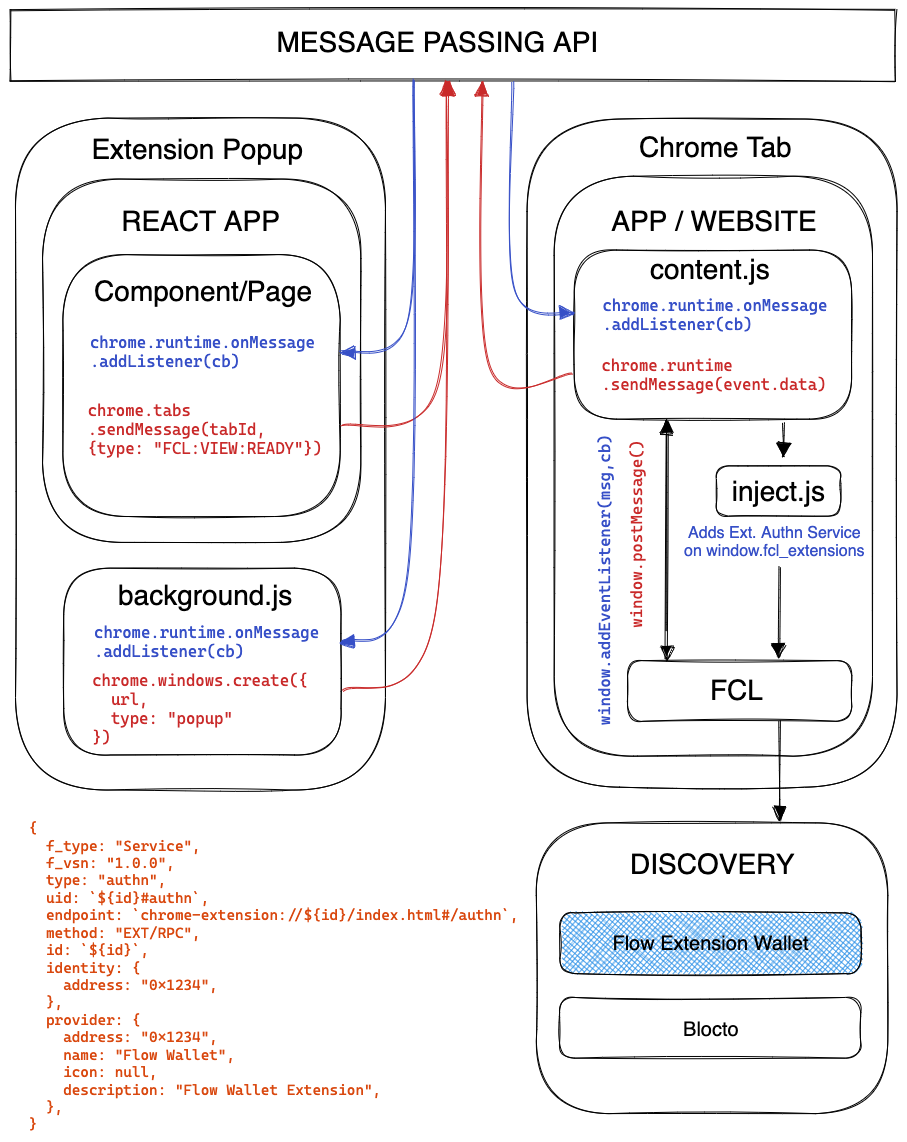
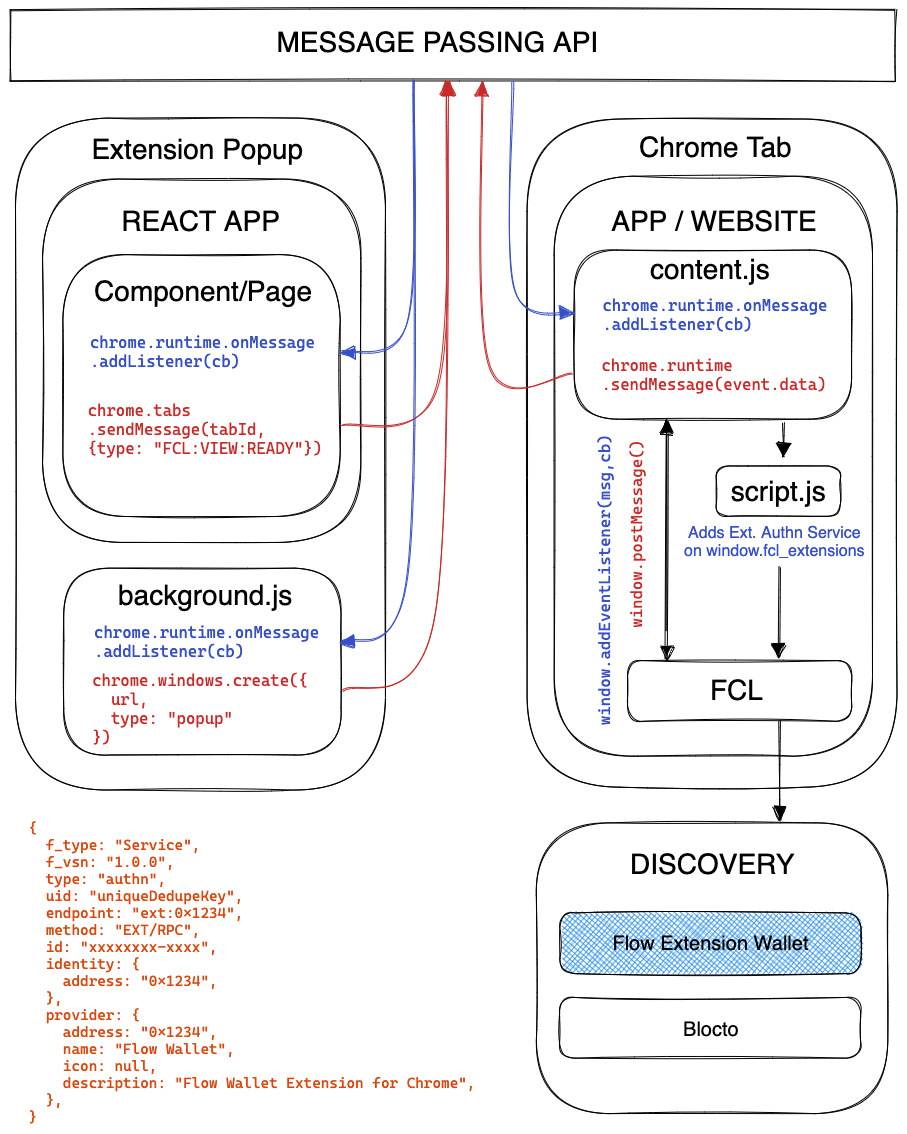
Update docs and images

diff --git a/docs/index.md b/docs/index.md
@@ -33,10 +33,9 @@ See [here](https://github.com/onflow/fcl-js/blob/master/packages/fcl/src/wallet-
 There are 3 key scripts that FCL relies on to allow message passing between the extension and the dapp. The global separation of context created by Chrome between the two and the availability of Chrome APIs within those contexts require these scripts to be setup in a particular sequence so that the communication channels needed by FCL's EXT/RPC service method will work.
 
 The following is an overview of these scripts and the functionality they need to support FCL:
-- `background.js`: Used to launch the extension if selected by the user from Discovery via `chrome.windows.create`.
-- `content.js`: Used to proxy messages between the dapp to the extension via `chrome.runtime.sendMessage` and send the id of the chrome extension to `script.js` right after it's injected.
-- `script.js`: Injected by `content.js` into the dapp and waits for the id of the chrome extension to build the authn service and allow Discovery to launch the extension.
-
+- `background.js`: Used to launch the extension with `chrome.windows.create` if selected by the user from Discovery or set directly via `fcl.config.discovery.wallet`
+- `content.js`: Used to proxy messages between the dapp to the extension via `chrome.runtime.sendMessage`.
+- `script.js`: Injected by `content.js` into the brower page shared with the dapp. Adds the extension `authn` service to `window.fcl_extensions` list on load. This allows FCL to confirm installation and send extension details to Discovery or launch as default wallet.
 
 ![FCL Authz Sequence Diagram](img/ext-rpc-message-passing.png)
 <details>
@@ -54,6 +53,7 @@ Use the following versions of FCL within your extension - available via [NPM](ht
     - Requires separate http-transport package from `@onflow/transport-http` installed as dependency
 
 Configure FCL to use the HTTP API on the Access Node with the HTTP transport layer.
+
 ```js
 import {config} from "@onflow/fcl"
 import {send as httpSend} from "@onflow/transport-http"
@@ -62,9 +62,11 @@ config()
   fclConfig.put("accessNode.api", "https://rest-testnet.onflow.org")
   fclConfig.put("sdk.transport", httpSend)
 ```
-See [here](https://docs.onflow.org/fcl/reference/configure-fcl/) for more configuration options. Note that many of these configuration options are dapp specific and not needed for the wallet.
+
+See [here](https://docs.onflow.org/fcl/reference/configure-fcl/) for more configuration options. Note, that many of these configuration options are dapp specific and not needed for the wallet.
 
 **Manifest V3 configurations:**
+
 ```json
   ...
 
@@ -92,38 +94,47 @@ See [here](https://docs.onflow.org/fcl/reference/configure-fcl/) for more config
 
   ...
 ```
+
 See [here](https://github.com/gregsantos/flow-wallet-extension/blob/master/public/manifest.json) for the full sample manifest v3 file.
 
 ### Harness & Testing
+
 In order to test your FCL integration as you build your extension, you may want to use a simple sample dapp that can send authentication and authorization requests. We have created a [basic harness](https://github.com/orodio/harness) to use for development that you can download, run, and use against your extension. View the instructions on the harness to get it running.
 
 
 
 ### FCL Discovery
-FCL Discovery relies on the global window object to find injected extensions in `window.fcl_extensions`. It expects extensions to have injected an specific object into the array that needs to proceed to authentication if the user chooses it and contains details like the extension endpoint to open on login, the FCL version and more. This object is created via [`script.js`](#) shouldn't need much modification past the `endpoint` key.
+
+FCL relies on the global window object to find injected extensions in `window.fcl_extensions` list. It expects the extension to have injected a specific object into the array that it needs to confirm installation and proceed with authentication if the user chooses it. This `authn` type Service object is added via [`script.js`](#) and passed to Discovery. It contains details like the extension endpoint to open on login (see below), the FCL version, and the wallet provider details.
+
 ```js
 const AuthnService = {
   f_type: "Service",
   f_vsn: "1.0.0",
   type: "authn",
-  uid: `${id}#authn`,
-  endpoint: `chrome-extension://${id}/index.html#/authn`,
-  method: "EXT/RPC",	
+  uid: `uniqueDedupeKey`,
+  endpoint: `ext:0x1234`,
+  method: "EXT/RPC",
   ...
 }
+
 if (!Array.isArray(window.fcl_extensions)) {
   window.fcl_extensions = []
 }
 window.fcl_extensions.push(AuthnService)
 ```
-In order for `script.js` to push to the `window`, and the user to launch the extension from an unopened state, the following actions need to run in the following order:
-1. `background.js` adds a listener for `FCL:LAUNCH:EXTENSION`
-2. `content.js` injects separate script (`script.js`) into the window as it has no access to page window variables.
-3. `content.js` sends `chrome.runtime.id` to `script.js` via `CustomEvent` (*timeout may be required) as Discovery will need this id to define the endpoint of the extension on initial open.
-4. `script.js` listens for event from `content.js` and adds `AuthnService` on `window.fcl_extensions`. FCL checks for injected services to sends to Discovery.
-5. Discovery is able display the extension as an available choice for the user as it pulls from the `window.fcl_extensions` array for the relevant information. If user selects the extension wallet, it uses the `endpoint` in the authn service and the `FCL:LAUNCH:EXTENSION` message to `background.js` to launch the extension. This is required due to the `chrome.windows.create` only being accessible by the background script.
 
-All future actions that require the user to authenticate or authorize are proxied through `content.js` directly as the extension is already launched and has listeners mounted on `content.js` to pass messages.
+The endpoint of your `authn` and other services should be of the form `ext:YOUR_WALLETS_FLOW_ACCOUNT_ADDRESS`. This endpoint is used by FCL and checked in your background script to conditionally open the extension popup window. It can optionally be used to set the extension as the default wallet via `fcl.discovery.wallet`
+
+In order for the user to launch the extension from an unopened state, the following actions need to run in the following order:
+
+1. `background.js` adds a listener via `chrome.runtime.onMessage.addListener(callback)`. The callback should confirm the service endpoint before opening the extension popup window.
+2. `content.js` adds an event listener for messages from window/FCL. Messages received will be proxied to the extension via `chrome.runtime.sendMessage`. It also adds another listener via `chrome.runtime.onMessage.addListener` to proxy messages back from the extension to the window/FCL.
+3. `content.js` injects a separate script (`script.js`) into the window as it has no access to page window variables.
+4. `script.js` adds `authn` type Service on `window.fcl_extensions`. FCL checks for injected services to send to Discovery.
+5. Discovery is able display the extension as an available choice for the user as it pulls from the `window.fcl_extensions` array for the relevant information. If the extension wallet is selected, FCL uses the authn service method (`EXT/RPC`) to send a postMessage with service `endpoint` and `type`. The content script receives this and proxies the message to the `background.js` to launch the extension. This is required due to the `chrome.windows.create` only being accessible by the background script.
+
+Once the extension popup window is open, communication is proxied directly through `content.js` to/from the extension popup via `chrome.runtime.sendMessage` (content script) and `chrome.tabs.sendMessage` (extension popup).
 
 <details>
 <summary>FCL Discovery and Authn Sequence Diagram</summary>
@@ -134,10 +145,12 @@ All future actions that require the user to authenticate or authorize are proxie
 TODO: How to generate accounts and use the Account API
 
 ### FCL Authentication
-Authentication is triggered either through Discovery or through any FCL transaction that requires authentication. When authentication is requested, the following should happen:
+
+Authentication is triggered either through Discovery, default configuration (fcl.config.discovery.wallet) or through any FCL transaction that requires authentication. When authentication is requested, the following should happen:
+
 1. On opening of the authentication tab on the extension, it should fire a message of `{type: "FCL:VIEW:READY"}` via `chrome.tabs.sendMessage` to indicate to the dapp that it should wait for a response from the user within the extension. See [sample authn page](#).
-2. The dapp will respond with `FCL:VIEW:READY:RESPONSE` which is received by `content.js` and sent to the authn page. The dapp will wait for an approved polling response from the extension.
-3. Once the user has successfully authenticated, the extension should send a message of type `PollingResponse` with the `status` field as `"APPROVED"` and the relevant service objects returned. See [sample authn page](#).
+2. The dapp/FCL will respond with `FCL:VIEW:READY:RESPONSE` which is received by `content.js` and proxied to the extension authentication page. The dapp will wait for an approved polling response from the extension.
+3. Once the user has successfully authenticated, the extension should send a message of type `PollingResponse` with the `status` field as `"APPROVED"` and an `AuthnResponse` with relevant service objects as data. See [sample authn page](#).
 
 All messages above are proxied through `content.js`.
 
@@ -150,11 +163,11 @@ All messages above are proxied through `content.js`.
 ### FCL Authorization
 Authorization is very similar to authentication with the exception that the `"FCL:VIEW:READY:RESPONSE"` will contain additional data that contains the signable object (containing the relevant Cadence transaction, etc.).
 
-The authorization should likely also listen for `FLOW::TX` messages to recieve the transactionID back from the dapp to recieve the status of the transaction.
+The content script can also listen for `FLOW::TX` messages and proxy to the popup to recieve the status of the transaction.
 
-In the `PollingResponse`, there should be a `data` field that contains a composite signature for the users transaction.
+In the `PollingResponse`, there should be a `data` field that contains a composite signature for the user's transaction.
 
-> **This composite signature will be generated using the users keys and should be done securely.** 
+> **This composite signature will be generated using the users keys and should be done securely.**
 
 Although a [sample implementation](#) has been provided, you should thoroughly review your own signing functionality and ensure its security.
 
